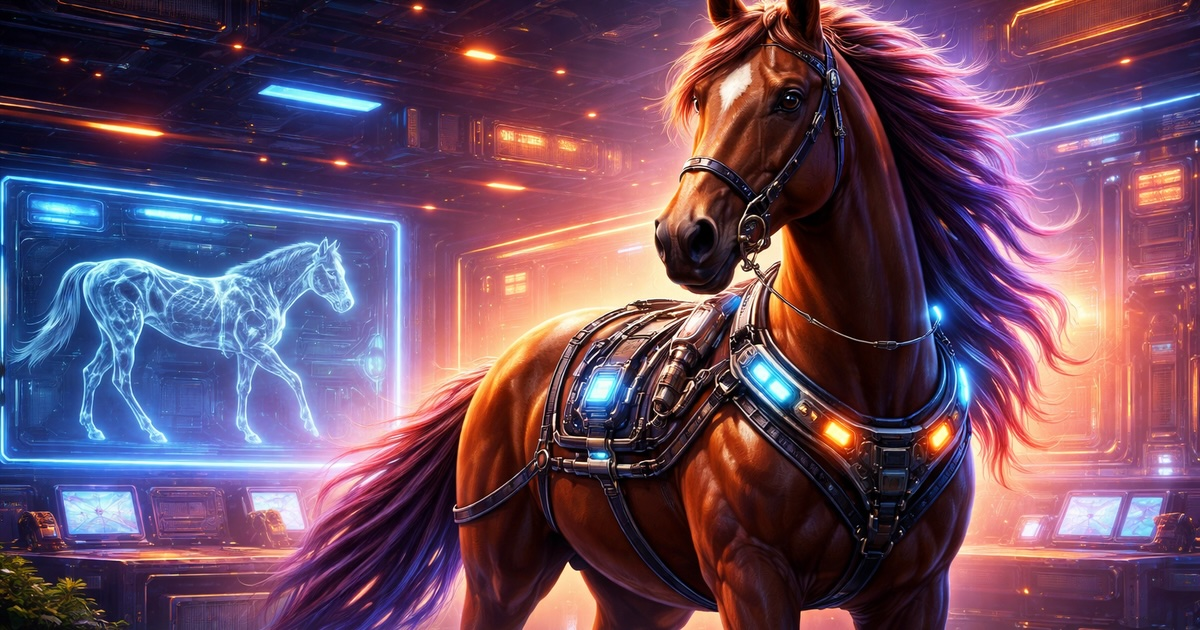
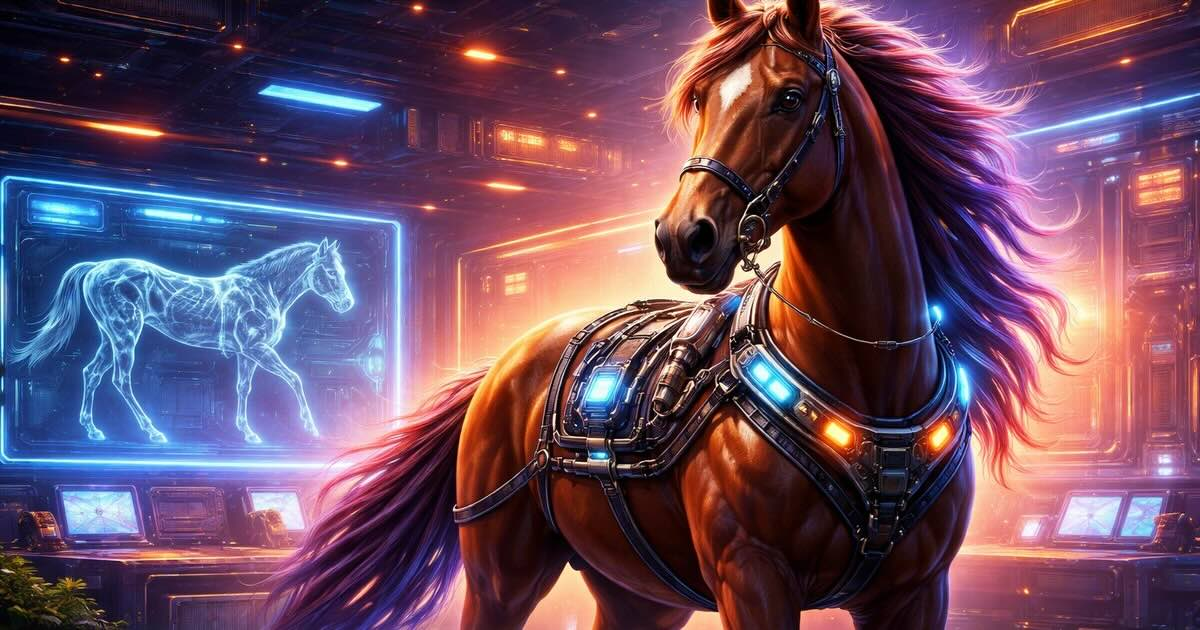
Optimised images

Changed region(s): [[0.6167, 0.6032, 0.6475, 0.6333], [0.6167, 0.4524, 0.6475, 0.4825]]

diff --git a/src/app/blog/(post)/[slug]/page.tsx b/src/app/blog/(post)/[slug]/page.tsx
@@ -87,7 +87,7 @@ export default async function BlogPostPage({ params }: BlogPostPageProps) {
 
         <div className="flex justify-center">
           <Image
-            src={post.heroImage ?? "/img/blog-images/blog-placeholder.png"}
+            src={post.heroImage ?? "/img/blog-images/blog-placeholder.jpg"}
             alt={`Hero image for ${post.title}`}
             className="rounded-xl border border-border object-cover"
             width={600}

diff --git a/src/app/page.tsx b/src/app/page.tsx
@@ -38,7 +38,7 @@ export default async function Home() {
       <HomepageHero
         name="Rob Earlam"
         lead="Developer advocate, software developer, movie lover, music listener, pizza eater, meat smoker"
-        imageSrc="/img/rob.png"
+        imageSrc="/img/rob.jpg"
         imageAlt="Profile photo of Rob Earlam"
       />
       <HomepageSection heading="Latest Blogs" ctaLabel="View all posts →" ctaHref="/blog">

diff --git a/src/components/blog/blog-post-card.tsx b/src/components/blog/blog-post-card.tsx
@@ -8,7 +8,7 @@ type BlogPostCardProps = {
   layout?: "vertical" | "horizontalCompact";
 };
 
-const BLOG_PLACEHOLDER_IMAGE = "/img/blog-images/blog-placeholder.png";
+const BLOG_PLACEHOLDER_IMAGE = "/img/blog-images/blog-placeholder.jpg";
 
 function formatPublishDate(value: string): string {
   return new Date(value).toLocaleDateString("en-GB", {

diff --git a/harness/artifacts/specs/T013-feature-spec.md b/harness/artifacts/specs/T013-feature-spec.md
@@ -33,7 +33,7 @@ List the behaviours and capabilities included in this feature.
 - Add image rendering to each card in the homepage "Latest Blogs" preview section.
 - Add thumbnail rendering to each post card across all blog listing pages included in the current listing experience.
 - Use a post's existing optional `heroImage` value when one is defined.
-- Use the existing placeholder asset at `/src/public/img/blog-images/blog-placeholder.png` when a post does not define a hero image.
+- Use the existing placeholder asset at `/src/public/img/blog-images/blog-placeholder.jpg` when a post does not define a hero image.
 - Ensure card images link to the same post destination as the associated title or card.
 - Preserve current latest-post selection, reverse-chronological ordering, pagination, archive filtering, tag filtering, and existing text metadata.
 - Define acceptance criteria for responsive presentation, intentional fallback behavior, meaningful alt text, and avoidance of obvious layout breakage or severe image-load shift.
@@ -81,12 +81,12 @@ Avoid vague examples such as:
 
 1. The homepage "Latest Blogs" section renders one image per preview card for the same three posts selected by the existing latest-post behavior.
 2. When a homepage previewed post defines a hero image, that image is shown on its preview card.
-3. When a homepage previewed post does not define a hero image, its preview card shows the existing placeholder asset at `/src/public/img/blog-images/blog-placeholder.png` instead of an empty, broken, or missing image state.
+3. When a homepage previewed post does not define a hero image, its preview card shows the existing placeholder asset at `/src/public/img/blog-images/blog-placeholder.jpg` instead of an empty, broken, or missing image state.
 4. Each homepage preview card image links to the same blog post destination as the card title.
 5. Homepage preview cards continue to display the existing publish date, title, abstract, and tags correctly after image support is added.
 6. All blog listing pages in the current blog browsing experience render one thumbnail image for each listed post card.
 7. When a listed post defines a hero image, that image is used as the listing thumbnail for that post.
-8. When a listed post does not define a hero image, the listing thumbnail uses the existing placeholder asset at `/src/public/img/blog-images/blog-placeholder.png`.
+8. When a listed post does not define a hero image, the listing thumbnail uses the existing placeholder asset at `/src/public/img/blog-images/blog-placeholder.jpg`.
 9. Each listing thumbnail links to the same blog post destination as the associated title or card.
 10. Existing listing behavior remains intact after thumbnail support is added, including current ordering, pagination, archive filtering, and tag filtering where applicable.
 11. Existing listing metadata remains present and correct after thumbnail support is added.
@@ -111,7 +111,7 @@ Examples:
 
 - The task definition and run state remain the authoritative scope and stage inputs for this artifact.
 - Blog post data already exposes an optional hero-image field through the existing normalization flow described in the task.
-- The existing placeholder asset at `/src/public/img/blog-images/blog-placeholder.png` is available for reuse.
+- The existing placeholder asset at `/src/public/img/blog-images/blog-placeholder.jpg` is available for reuse.
 - Current homepage latest-blog and blog listing surfaces remain the baseline behavior to preserve.
 
 ---

diff --git a/harness/artifacts/plans/T013-implementation-plan.md b/harness/artifacts/plans/T013-implementation-plan.md
@@ -49,7 +49,7 @@ Confirm that:
 
 Implement this feature by extending the existing shared blog card pattern rather than creating separate homepage and listing card systems. Minimal code inspection shows that both the homepage latest-post grid and the blog listing experience already render `BlogPostCard`, with listing routes flowing through `BlogFeedClient`. That makes the simplest sound approach to add a reusable image region and fallback behavior to the shared card component, then adjust the homepage and listing wrappers only as needed to preserve layout density and readability in each context.
 
-The card should consume the existing optional `heroImage` value from the normalized blog post summary model and fall back to the runtime public asset path `/img/blog-images/blog-placeholder.png` when no hero image is present. The image region should reserve layout space with a stable aspect ratio and use the project's existing Next.js image handling so homepage and listing cards avoid obvious layout shift. Accessibility should be handled at the card level with deliberate alt-text behavior that does not create noisy repetition next to the linked title. No changes are planned to latest-post selection, pagination, archive filtering, tag filtering, or the blog content schema.
+The card should consume the existing optional `heroImage` value from the normalized blog post summary model and fall back to the runtime public asset path `/img/blog-images/blog-placeholder.jpg` when no hero image is present. The image region should reserve layout space with a stable aspect ratio and use the project's existing Next.js image handling so homepage and listing cards avoid obvious layout shift. Accessibility should be handled at the card level with deliberate alt-text behavior that does not create noisy repetition next to the linked title. No changes are planned to latest-post selection, pagination, archive filtering, tag filtering, or the blog content schema.
 
 Where homepage and listing density need to diverge, prefer a small extension of the existing card API or wrapper styling over introducing a second card implementation. Keep the blog data pipeline unchanged unless a narrowly scoped helper is needed to centralize image fallback or alt-text derivation.
 
@@ -132,7 +132,7 @@ Likely read-only dependencies to preserve rather than redesign:
 
 - existing blog summary data from `src/lib/blog/posts.ts`
 - existing blog summary type in `src/lib/blog/types.ts`
-- existing placeholder asset served from `/img/blog-images/blog-placeholder.png`
+- existing placeholder asset served from `/img/blog-images/blog-placeholder.jpg`
 
 ---
 
@@ -169,7 +169,7 @@ Likely read-only dependencies to preserve rather than redesign:
 ## Assumptions
 
 - The existing optional `heroImage` field in the blog summary model is already sufficient and does not require schema changes.
-- The runtime placeholder path should be `/img/blog-images/blog-placeholder.png`, matching existing public-asset usage on blog post detail pages.
+- The runtime placeholder path should be `/img/blog-images/blog-placeholder.jpg`, matching existing public-asset usage on blog post detail pages.
 - `BlogPostCard` is the correct shared extension point for homepage and listing discovery surfaces because both flows already render it.
 - Existing Vitest and Testing Library setup under `src/app/tests/` remains the preferred place for focused regression coverage for this task.
 

diff --git a/harness/tasks/T013-blog-hero-images.md b/harness/tasks/T013-blog-hero-images.md
@@ -13,7 +13,7 @@ Add hero image rendering to homepage and blog listing cards so blog discovery su
 Scope for this task is:
 - updating the homepage blog preview presentation so each card displays the post hero image when one is available
 - updating all blog listing pages so each listed post includes a thumbnail derived from the post hero image
-- using the existing placeholder asset at `/src/public/img/blog-images/blog-placeholder.png` when a post does not define `heroImage`
+- using the existing placeholder asset at `/src/public/img/blog-images/blog-placeholder.jpg` when a post does not define `heroImage`
 - preserving the current latest-post selection, ordering, linking, pagination, filtering, and text content while extending list card layouts to support imagery
 
 ---
@@ -34,7 +34,7 @@ Run Report: `harness/runs/{{RUN_ID}}.md`
 
 - The homepage "Latest Blogs" section renders an image for each preview card
 - If a post defines `heroImage`, that image is shown on the homepage preview card for that post
-- If a post does not define `heroImage`, the homepage preview card uses the existing placeholder asset located at `/src/public/img/blog-images/blog-placeholder.png`
+- If a post does not define `heroImage`, the homepage preview card uses the existing placeholder asset located at `/src/public/img/blog-images/blog-placeholder.jpg`
 - The preview card image links to the same blog post destination as the card title
 - Existing post metadata shown on the homepage preview cards remains present and correct, including publish date, title, abstract, and tags
 - Latest blog selection remains based on the existing `getLatestPosts(3)` behavior and current reverse-chronological ordering
@@ -43,7 +43,7 @@ Run Report: `harness/runs/{{RUN_ID}}.md`
 
 - All blog listing pages render a thumbnail image for each listed post
 - If a listed post defines `heroImage`, that image is used as the thumbnail on blog listing pages
-- If a listed post does not define `heroImage`, blog listing pages use the existing placeholder asset located at `/src/public/img/blog-images/blog-placeholder.png`
+- If a listed post does not define `heroImage`, blog listing pages use the existing placeholder asset located at `/src/public/img/blog-images/blog-placeholder.jpg`
 - Thumbnail images on blog listing pages link to the same blog post destination as the associated title or card
 - Existing listing behaviors remain intact, including current ordering, pagination, archive filtering, and tag filtering where applicable
 - Existing post metadata shown on blog listing pages remains present and correct after thumbnail support is added

diff --git a/harness/artifacts/qa/T013-qa-review.md b/harness/artifacts/qa/T013-qa-review.md
@@ -63,7 +63,7 @@ Pass With Minor Issues
 
 3. When a homepage previewed post does not define a hero image, its preview card shows the existing placeholder asset instead of an empty or broken image state.  
    Status: Pass  
-   Notes: BlogPostCard uses /img/blog-images/blog-placeholder.png as fallback and renders it through Next Image.
+   Notes: BlogPostCard uses /img/blog-images/blog-placeholder.jpg as fallback and renders it through Next Image.
 
 4. Each homepage preview card image links to the same blog post destination as the card title.  
    Status: Pass  
@@ -83,7 +83,7 @@ Pass With Minor Issues
 
 8. When a listed post does not define a hero image, the listing thumbnail uses the existing placeholder asset.  
    Status: Pass  
-   Notes: Shared fallback path is fixed to /img/blog-images/blog-placeholder.png.
+   Notes: Shared fallback path is fixed to /img/blog-images/blog-placeholder.jpg.
 
 9. Each listing thumbnail links to the same blog post destination as the associated title or card.  
    Status: Pass  

diff --git a/harness/runs/RUN-2026-03-27-T013.md b/harness/runs/RUN-2026-03-27-T013.md
@@ -59,7 +59,7 @@ QA Review: harness/artifacts/qa/T013-qa-review.md
 
 ## Implementation Summary
 
-Implemented shared hero-image support in `BlogPostCard`, which is reused by the homepage latest posts and blog listing flows. Cards now render a linked image region using `post.heroImage` when present and `/img/blog-images/blog-placeholder.png` when absent, while preserving existing publish date, title, abstract, tags, and destination behavior.
+Implemented shared hero-image support in `BlogPostCard`, which is reused by the homepage latest posts and blog listing flows. Cards now render a linked image region using `post.heroImage` when present and `/img/blog-images/blog-placeholder.jpg` when absent, while preserving existing publish date, title, abstract, tags, and destination behavior.
 
 ---
 

diff --git a/harness/backlog/backlog.md b/harness/backlog/backlog.md
@@ -116,7 +116,7 @@ Suggested status values:
 ### B016 - Blog hero images
 **Status:** Done  
 **Task:** T013  
-**Summary:** The blog hero images aren't used on the homepage preview component. We need to have them output there, if the blog doesn't have an image then use the default placeholder located at `/src/public/img/blog-images/blog-placeholder.png`
+**Summary:** The blog hero images aren't used on the homepage preview component. We need to have them output there, if the blog doesn't have an image then use the default placeholder located at `/src/public/img/blog-images/blog-placeholder.jpg`
 
 ---
 

diff --git a/harness/artifacts/design/T013-design-note.md b/harness/artifacts/design/T013-design-note.md
@@ -124,7 +124,7 @@ The image region should read as part of the card rather than a separate widget. 
 - Live workflow context in `harness/run-state.md`
 - Existing design-system guidance for content-first, editorial card presentation
 - Existing optional hero-image data in the blog content model
-- Existing placeholder asset at `/src/public/img/blog-images/blog-placeholder.png`
+- Existing placeholder asset at `/src/public/img/blog-images/blog-placeholder.jpg`
 - Existing homepage and blog listing card patterns that this feature extends rather than replaces
 
 ---
